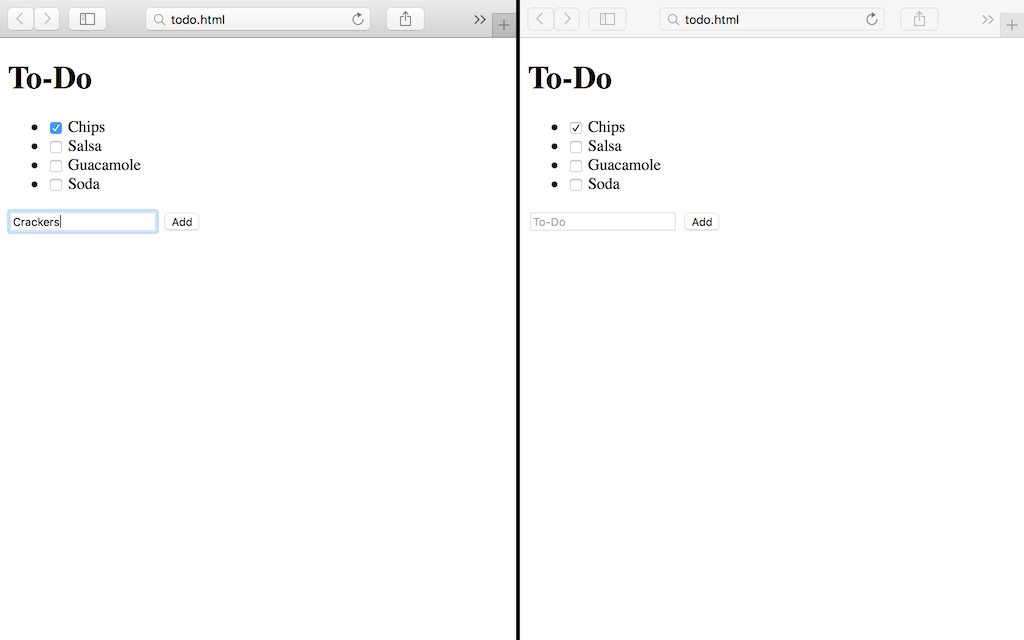
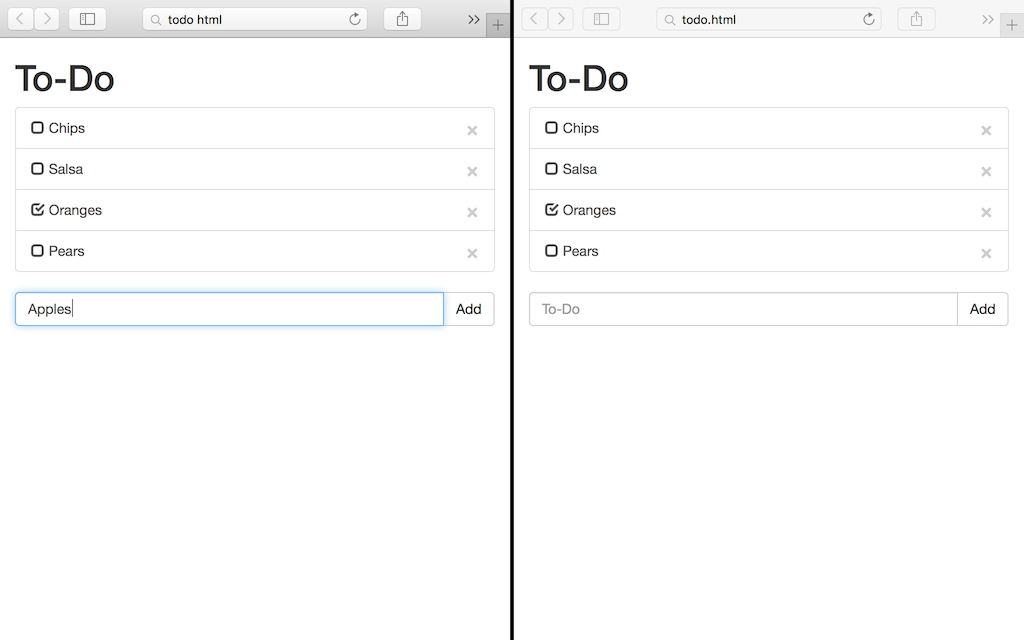
Support removing todo items

diff --git a/examples/todo/todo.html b/examples/todo/todo.html
@@ -3,18 +3,23 @@
   <head>
     <meta charset="UTF-8">
     <title>To-Do</title>
+    <link href="https://maxcdn.bootstrapcdn.com/bootstrap/3.3.6/css/bootstrap.min.css" rel="stylesheet"/>
   </head>
-  <body ng-controller="TodoList">
+  <body ng-controller="TodoList" class="container">
     <h1>To-Do</h1>
-    <ul>
-      <li ng-repeat="item in items.state">
-        <input type="checkbox" ng-model="item.checked" ng-change="check($index)"/>
-        <span>{{item.item}}</span>
-      </li>
+    <ul class="list-group">
+      <a ng-repeat="item in items.state" ng-click="toggle($index)" class="list-group-item">
+        <span ng-if="!item.checked" class="glyphicon glyphicon-unchecked"></span>
+        <span ng-if="item.checked" class="glyphicon glyphicon-check"></span>
+        {{item.item}}
+        <button ng-click="remove($index)" type="button" class="close">&times;</button>
+      </a>
     </ul>
-    <form ng-submit="add()">
-      <input type="text" placeholder="To-Do" ng-model="newItem"/>
-      <input type="submit" value="Add"/>
+    <form ng-submit="add()" class="input-group">
+      <input type="text" ng-model="newItem" placeholder="To-Do" class="form-control"/>
+      <span class="input-group-btn">
+        <input type="submit" value="Add" class="btn btn-default"/>
+      </span>
     </form>
     <script src="https://ajax.googleapis.com/ajax/libs/angularjs/1.5.0/angular.min.js"></script>
     <script src="https://repo.swim.it/swim/recon-0.3.9.js"></script>
@@ -33,8 +38,16 @@
           $scope.items.push({item: $scope.newItem});
           $scope.newItem = '';
         };
-        $scope.check = function (index) {
+        $scope.toggle = function (index) {
+          var item = $scope.items.get(index);
+          item.checked = !item.checked;
+          $scope.items.set(index, item)
+        }
+        $scope.update = function (index) {
           $scope.items.set(index);
+        };
+        $scope.remove = function (index) {
+          $scope.items.splice(index, 1);
         };
       });
     </script>

diff --git a/README.md b/README.md
@@ -70,18 +70,23 @@ boilerplate.
   <head>
     <meta charset="UTF-8">
     <title>To-Do</title>
+    <link href="https://maxcdn.bootstrapcdn.com/bootstrap/3.3.6/css/bootstrap.min.css" rel="stylesheet"/>
   </head>
-  <body ng-controller="TodoList">
+  <body ng-controller="TodoList" class="container">
     <h1>To-Do</h1>
-    <ul>
-      <li ng-repeat="item in items.state">
-        <input type="checkbox" ng-model="item.checked" ng-change="check($index)"/>
-        <span>{{item.item}}</span>
-      </li>
+    <ul class="list-group">
+      <a ng-repeat="item in items.state" ng-click="toggle($index)" class="list-group-item">
+        <span ng-if="!item.checked" class="glyphicon glyphicon-unchecked"></span>
+        <span ng-if="item.checked" class="glyphicon glyphicon-check"></span>
+        {{item.item}}
+        <button ng-click="remove($index)" type="button" class="close">&times;</button>
+      </a>
     </ul>
-    <form ng-submit="add()">
-      <input type="text" placeholder="To-Do" ng-model="newItem"/>
-      <input type="submit" value="Add"/>
+    <form ng-submit="add()" class="input-group">
+      <input type="text" ng-model="newItem" placeholder="To-Do" class="form-control"/>
+      <span class="input-group-btn">
+        <input type="submit" value="Add" class="btn btn-default"/>
+      </span>
     </form>
     <script src="https://ajax.googleapis.com/ajax/libs/angularjs/1.5.0/angular.min.js"></script>
     <script src="https://repo.swim.it/swim/recon-0.3.9.js"></script>
@@ -100,8 +105,16 @@ boilerplate.
           $scope.items.push({item: $scope.newItem});
           $scope.newItem = '';
         };
-        $scope.check = function (index) {
+        $scope.toggle = function (index) {
+          var item = $scope.items.get(index);
+          item.checked = !item.checked;
+          $scope.items.set(index, item)
+        }
+        $scope.update = function (index) {
           $scope.items.set(index);
+        };
+        $scope.remove = function (index) {
+          $scope.items.splice(index, 1);
         };
       });
     </script>
